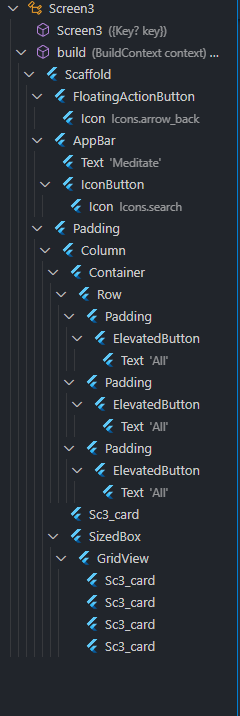
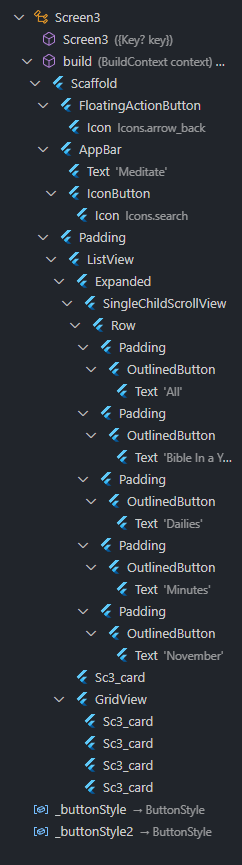
Readme update

diff --git a/README.md b/README.md
@@ -5,7 +5,28 @@
 
 #### Цель работы: отработать верстку в Flutter
 #### Ход работы:
-1.	Первая верстка 
+Структура приложения
+```
+lib
+├── main.dart
+├── menu_view.dart
+├── utilis
+│   ├── reusable_card.dart
+│   ├── rounded_button.dart
+│   ├── screen3_card.dart
+│   └── song_card.dart
+└── views
+    ├── screen1_view.dart
+    ├── screen2_view.dart
+    └── screen3_view.dart
+    ```
+
+Сначала было создано окно с выбором версток ```lib\menu_view.dart``` с помощью ```dart GridView.count() ``` и добавил кнопки с помощью, обернутой в ```MenuButton()```, ```ReusableCard()```
+и с помощью этого окна можно переходить между всем версками
+
+1.	Первая верстка ```lib\views\screen1_view.dart```
+
+Использовал ```FloatingActionButton()``` чтобы у пользователя была кнопка перехода в меню. Создал пользовательский класс ```lib\utilis\rounded_button.dart```  ```RoundedButtonWPadding()``` который оборачивает ```OutlinedButton()``` в виджетах для удобства использования 
 
 ![](https://github.com/Chu-4hun/flutter_pract1/blob/e31d616884780988cebffb9f90e60337079fcee1/images/v1.png "Первая верстка")
 
@@ -13,7 +34,10 @@
 
 ![](https://github.com/Chu-4hun/flutter_pract1/blob/e31d616884780988cebffb9f90e60337079fcee1/images/v1_1.png "Структура первого окна")
 
-2.	Вторая верстка
+2.	Вторая верстка ```lib\views\screen2_view.dart```
+
+Использовал ```FloatingActionButton()``` чтобы у пользователя была кнопка перехода в меню. Для того, чтобы сделать изображение с закругленными краями применил виджет ```ClipRRect()```. Все изображения берутся из интернета c помощью ```Image.network('https://random.imagecdn.app/400/250'))```
+
 
 ![](https://github.com/Chu-4hun/flutter_pract1/blob/e31d616884780988cebffb9f90e60337079fcee1/images/v2.png "Вторая верстка")
 
@@ -21,7 +45,9 @@
 
 ![](https://github.com/Chu-4hun/flutter_pract1/blob/e31d616884780988cebffb9f90e60337079fcee1/images/v2_2.png "Структура второго окна")
 
-3.	Третья верстка
+3.	Третья верстка ```lib\views\screen3_view.dart```
+
+Использовал ```FloatingActionButton()``` чтобы у пользователя была кнопка перехода в меню. Создал пользовательский класс ```lib\utilis\screen3_card.dart```
 
 ![](https://github.com/Chu-4hun/flutter_pract1/blob/e31d616884780988cebffb9f90e60337079fcee1/images/v3.png "Третья верстка")
 
